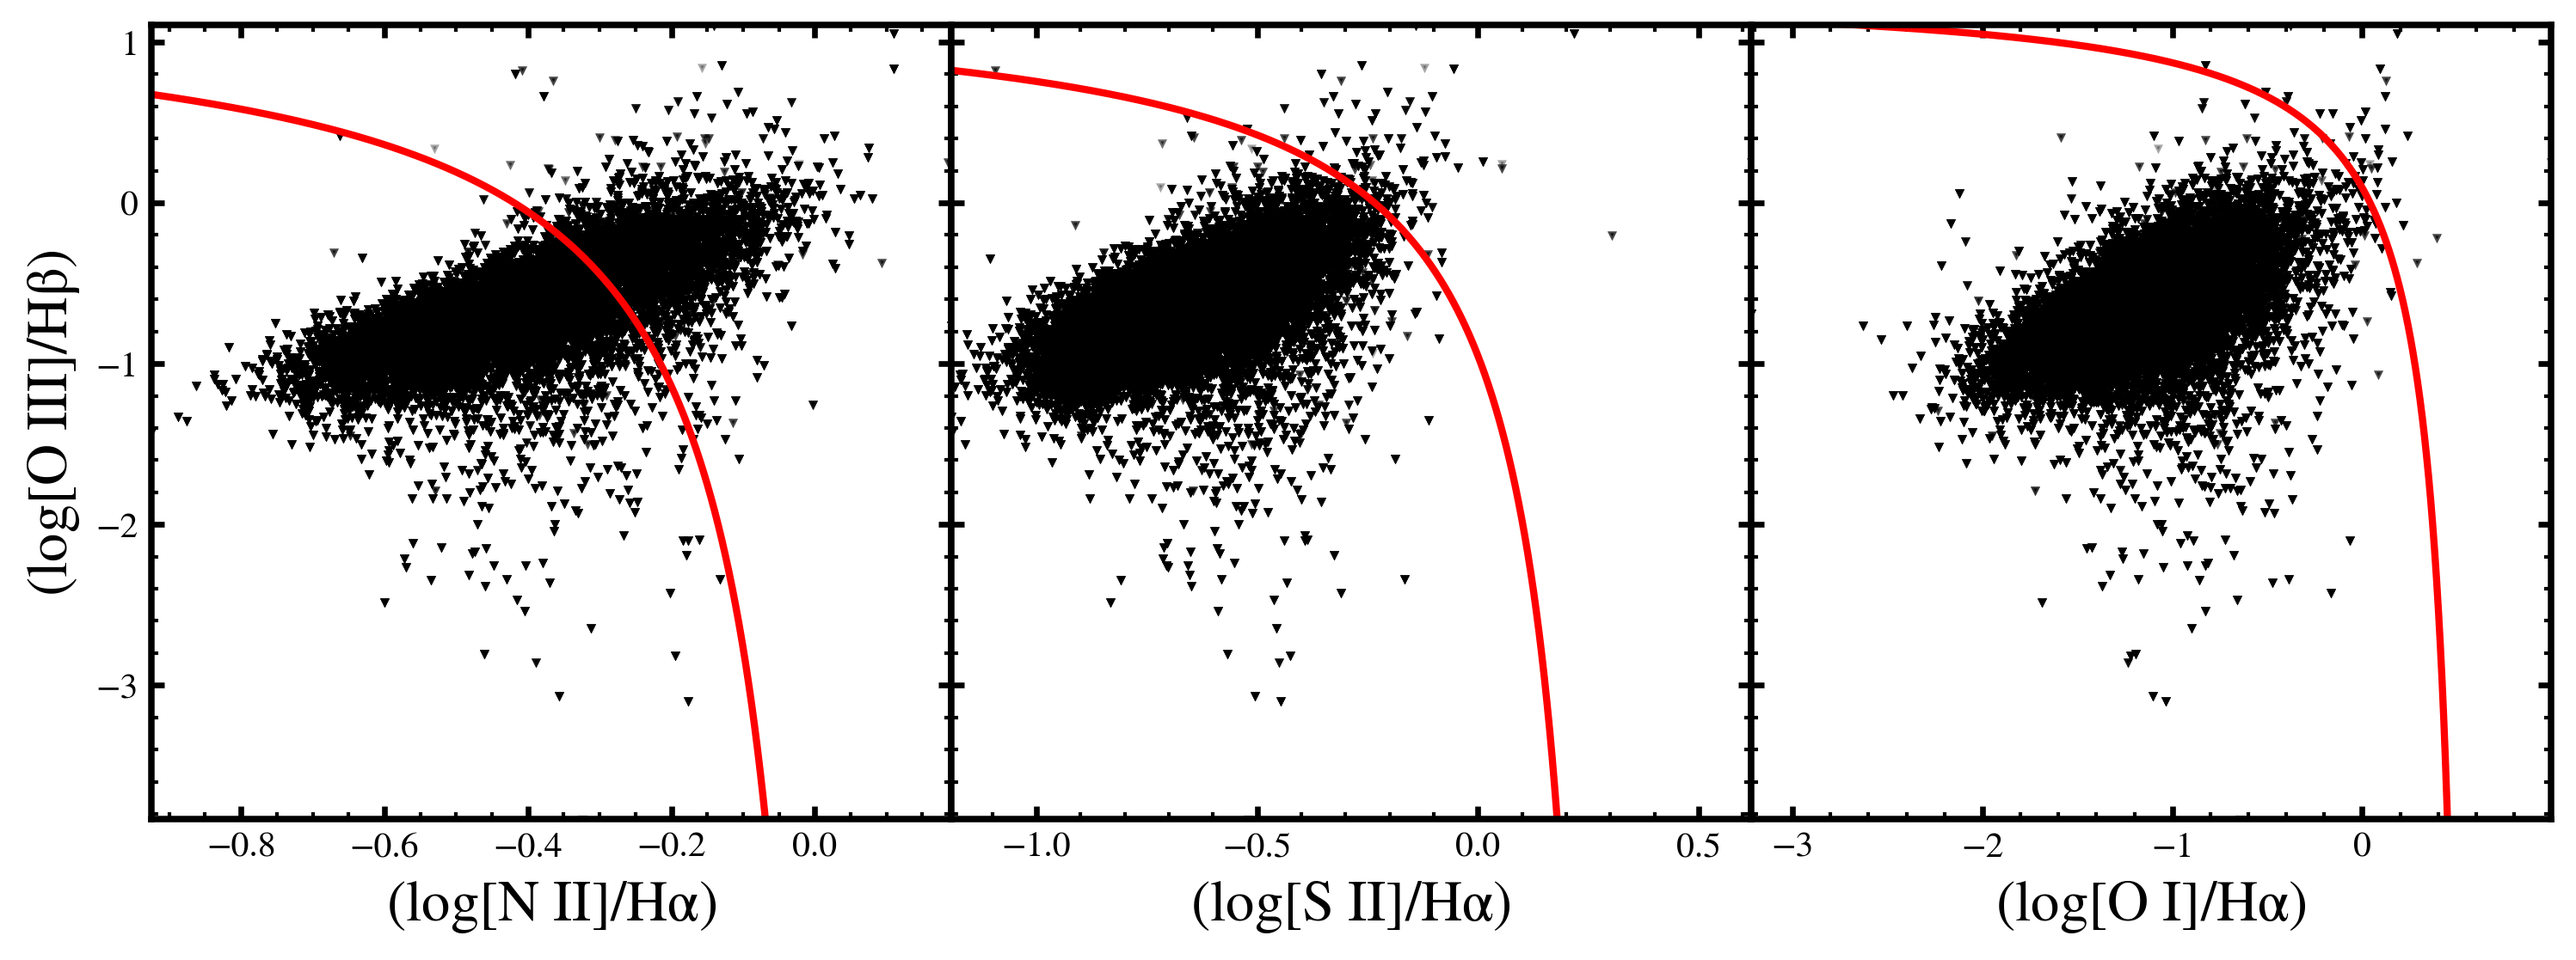
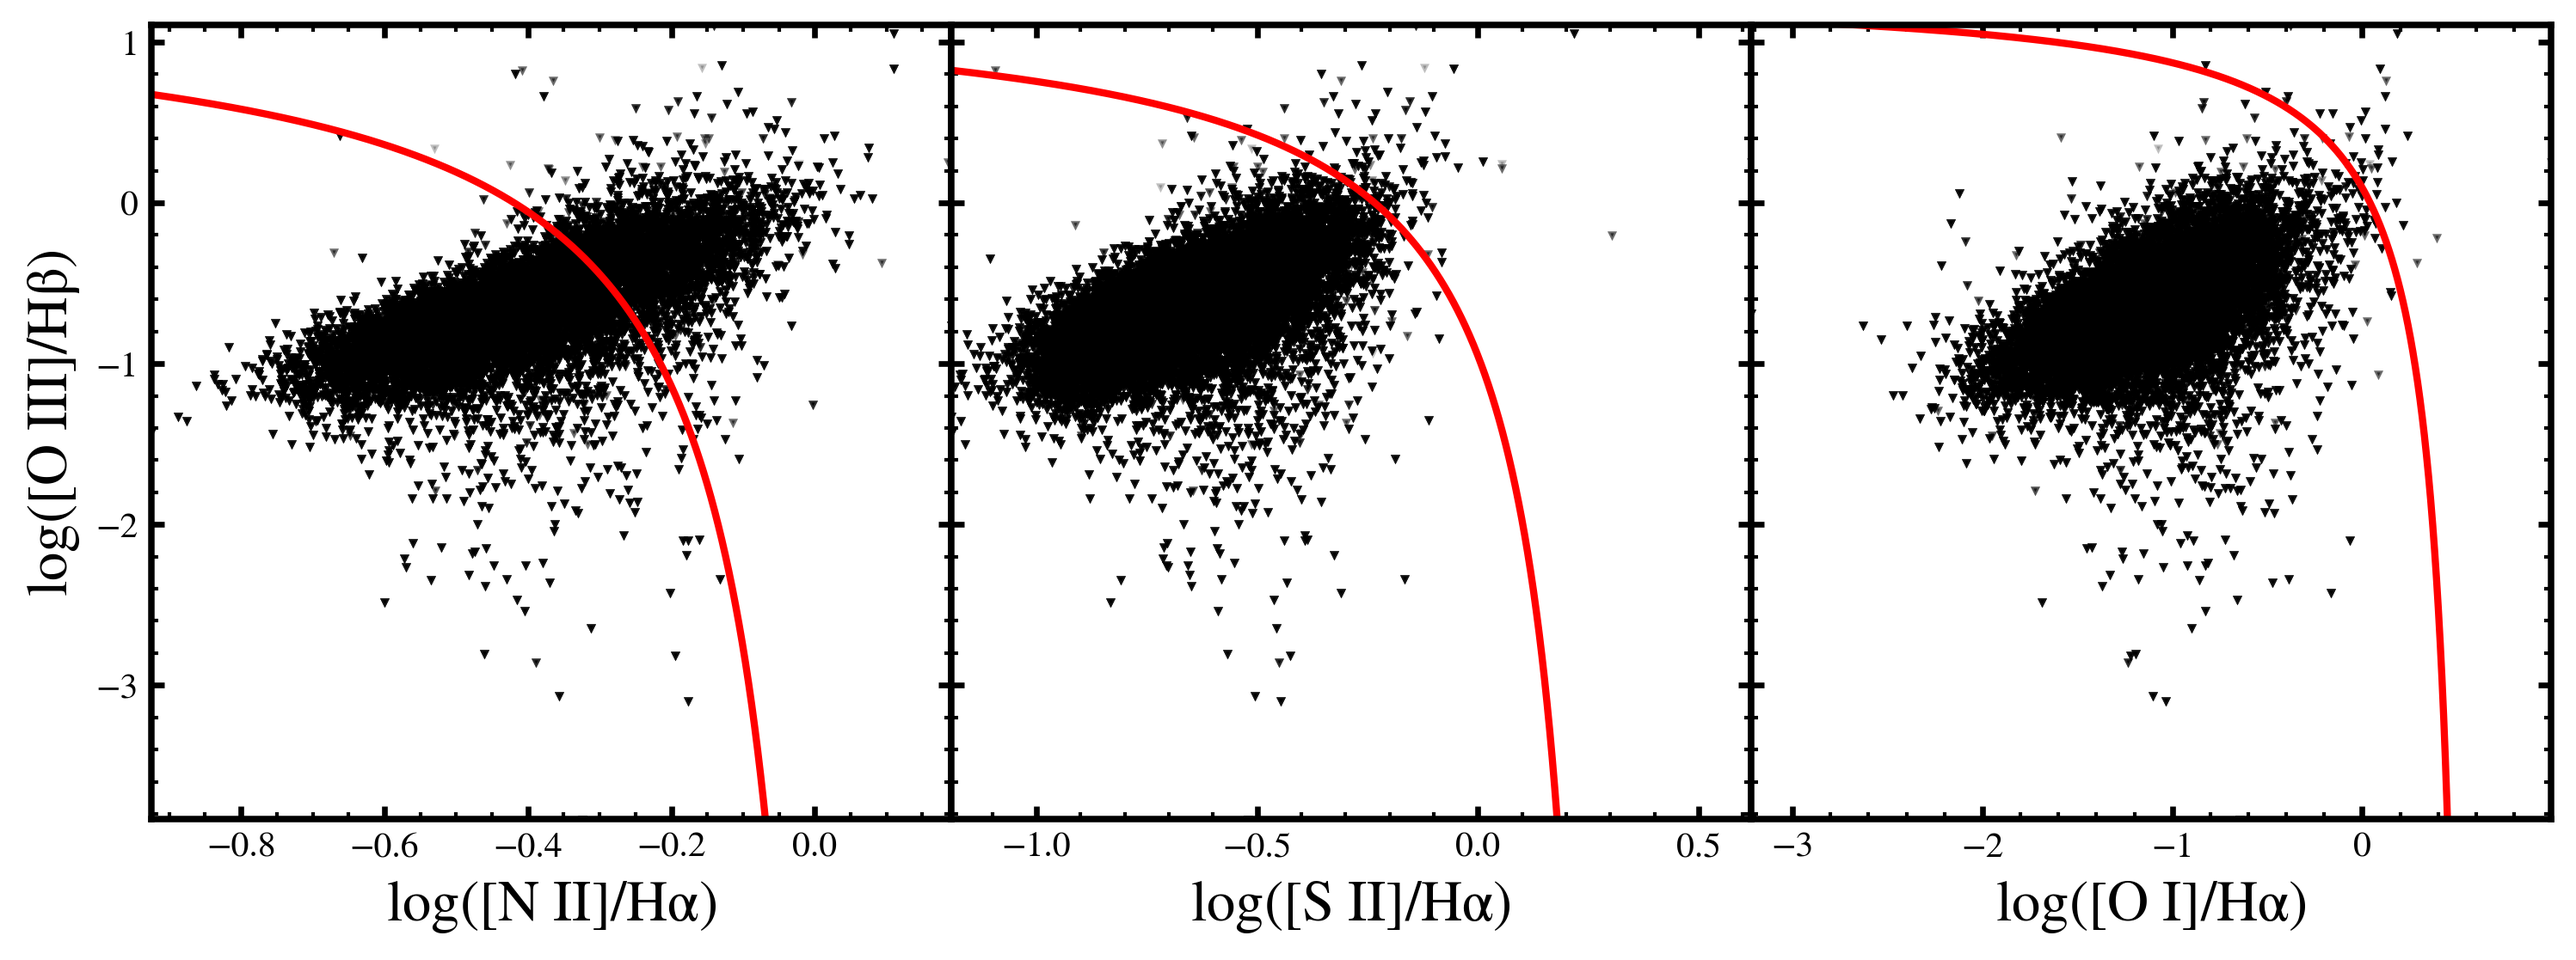
updated

diff --git a/maps/BPT.py b/maps/BPT.py
@@ -1,15 +1,11 @@
 import numpy as np
 import matplotlib.pyplot as plt
 from astropy.io import fits
-from astropy.table import Table, join
 from glob import glob
 import os
 import argparse
-from tqdm import tqdm
 import sys
 import astropy.units as u
-import warnings
-import configparser
 
 import logging
 logger = logging.getLogger()
@@ -86,33 +82,33 @@ def BPT(map_fil, fig_output):
     fig, ax = plt.subplots(1,3,figsize=(12,4),sharey=True)
 
 
-    ax[0].plot(nii_ha,oiii_hb,'v',color='k',ms=1,alpha=0.35)
+    ax[0].plot(nii_ha,oiii_hb,'v',color='k',ms=1,alpha=0.25)
 
     demarcation = lambda log_lr: 0.61 / (log_lr - 0.05) + 1.3
     classification = demarcation(fake_niiha)
     w = fake_niiha < 0.05
     ax[0].plot(fake_niiha[w], classification[w], color='r')
-    ax[0].set_ylabel(r"$\mathrm{(log[O\ III]/H \beta)}$")
-    ax[0].set_xlabel(r"$\mathrm{(log[N\ II]/H \alpha)}$")
+    ax[0].set_ylabel(r"$\mathrm{log([O\ III]/H \beta)}$")
+    ax[0].set_xlabel(r"$\mathrm{log([N\ II]/H \alpha)}$")
 
 
 
-    ax[1].plot(sii_ha,oiii_hb, 'v', color='k',ms=1,alpha=0.35)
+    ax[1].plot(sii_ha,oiii_hb, 'v', color='k',ms=1,alpha=0.25)
     
     demarcation = lambda log_lr: 0.72 / (log_lr - 0.32) + 1.3
     classification = demarcation(fake_siiha)
     w = fake_siiha < 0.32
     ax[1].plot(fake_siiha[w], classification[w], color='r')
-    ax[1].set_xlabel(r"$\mathrm{(log[S\ II]/H \alpha)}$")
+    ax[1].set_xlabel(r"$\mathrm{log([S\ II]/H \alpha)}$")
 
 
-    ax[2].plot(oi_ha,oiii_hb, 'v', color='k',ms=1,alpha=0.35)
+    ax[2].plot(oi_ha,oiii_hb, 'v', color='k',ms=1,alpha=0.25)
 
     demarcation = lambda log_lr: 0.73 / (log_lr - 0.59) + 1.33
     classification = demarcation(fake_oiha)
     w = fake_oiha < 0.59
     ax[2].plot(fake_oiha[w], classification[w], color='r')
-    ax[2].set_xlabel(r"$\mathrm{(log[O\ I]/H \alpha)}$")
+    ax[2].set_xlabel(r"$\mathrm{log([O\ I]/H \alpha)}$")
 
     ax[0].set_xlim(np.min(nii_ha[np.isfinite(nii_ha)]),np.max(nii_ha[np.isfinite(nii_ha)]))
     ax[0].set_ylim(np.min(oiii_hb[np.isfinite(oiii_hb)]),np.max(oiii_hb[np.isfinite(oiii_hb)]))
